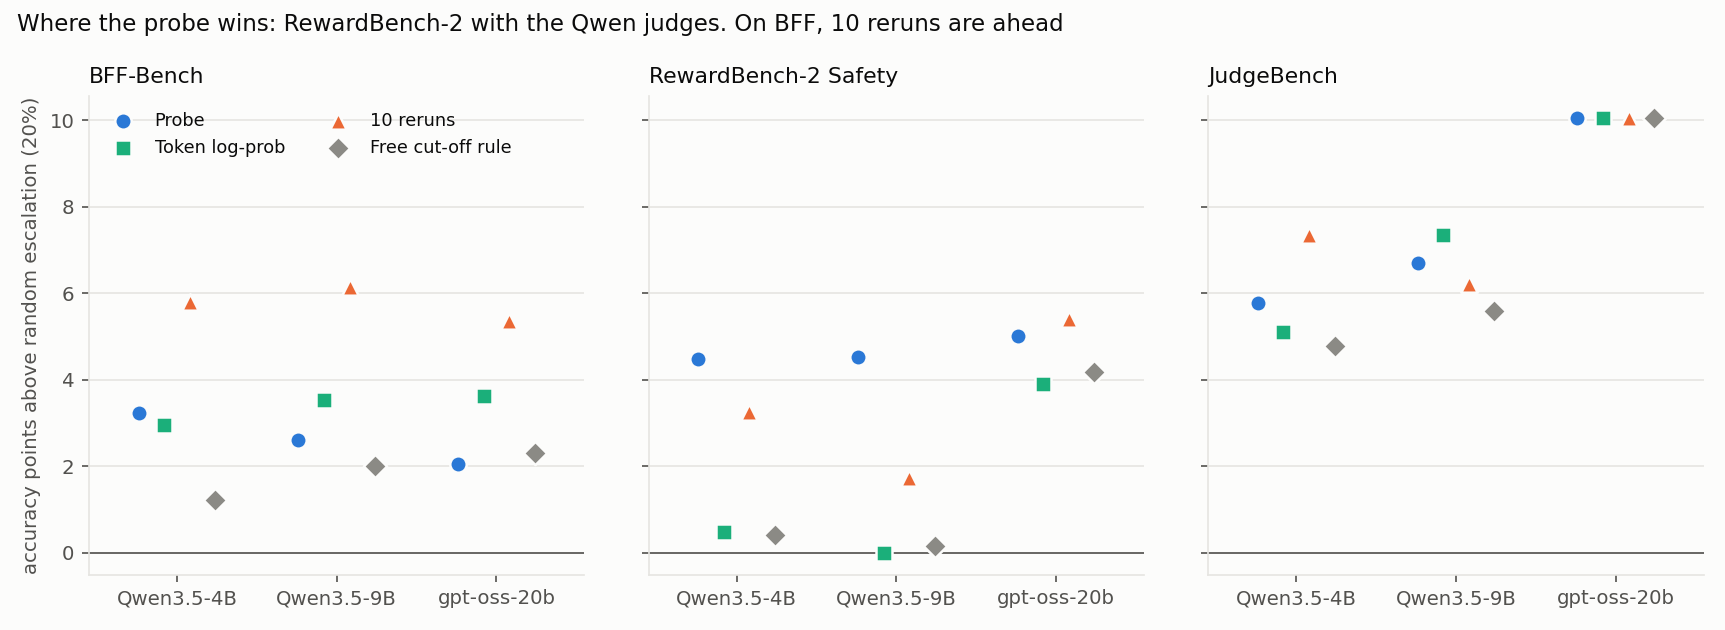
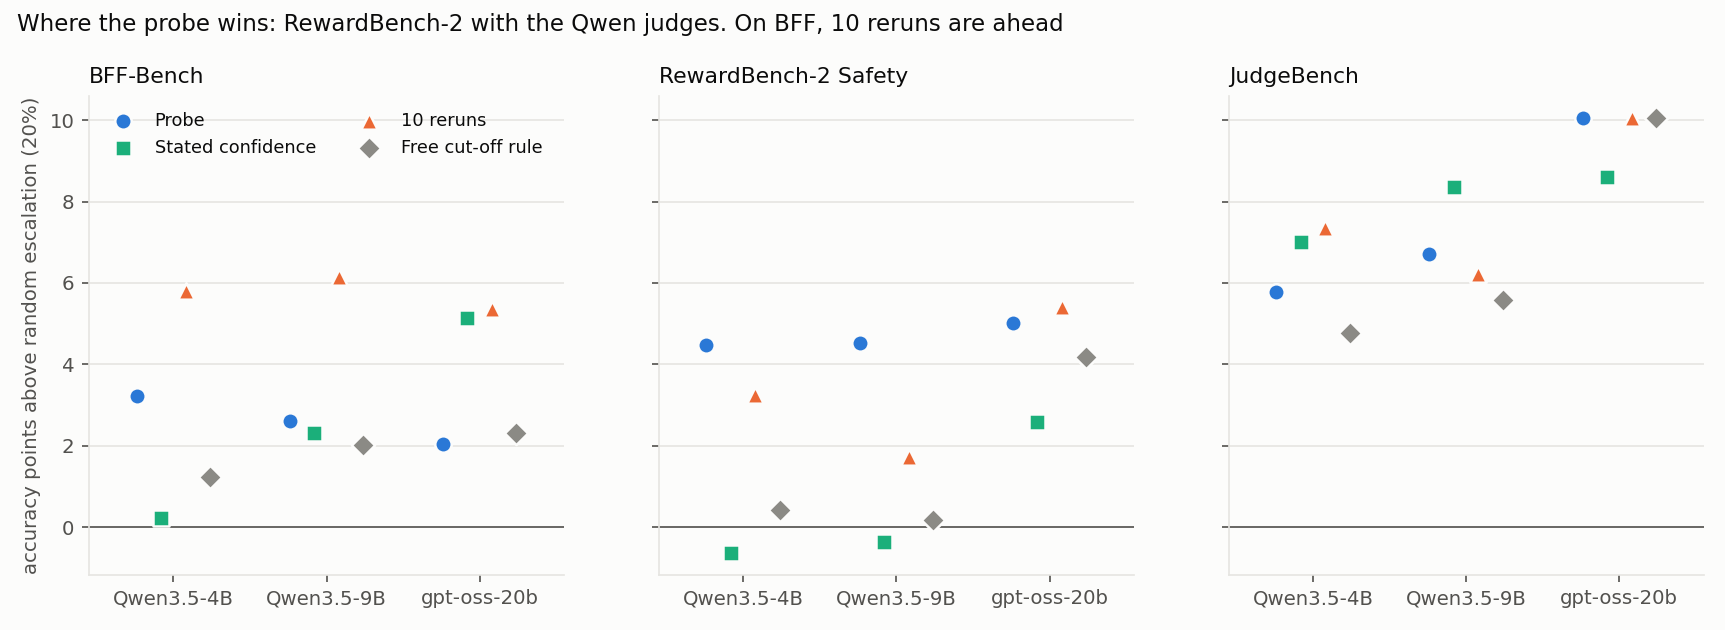
Calibrating LLM Judges README: show stated confidence (the paper's baseline) in the per-benchmark plot instead of token log-prob; keep token probabilities in the table

diff --git a/experiments/calibrating_judges/make_figures.py b/experiments/calibrating_judges/make_figures.py
@@ -68,7 +68,7 @@ def fig_overview(R):
 
 
 def fig_by_bench(R):
-    sigs = [(PROBE, "Probe", BLUE, "o"), ("token log-prob (perplexity)", "Token log-prob", AQUA, "s"), ("consistency (N=10)", "10 reruns", ORANGE, "^"), ("cut-off only (free rule)", "Free cut-off rule", GRAY, "D")]
+    sigs = [(PROBE, "Probe", BLUE, "o"), ("verbalized", "Stated confidence", AQUA, "s"), ("consistency (N=10)", "10 reruns", ORANGE, "^"), ("cut-off only (free rule)", "Free cut-off rule", GRAY, "D")]
     judges = [L for L, _ in RUNS]; fig, axs = plt.subplots(1, 3, figsize=(11.5, 4.2), sharey=True)
     for ax, b in zip(axs, ["bff", "rb2safety", "judgebench"]):
         for k, (s, lab, c, m) in enumerate(sigs):

diff --git a/experiments/calibrating_judges/README.md b/experiments/calibrating_judges/README.md
@@ -69,11 +69,11 @@ Points above random escalation at 20%, averaged over the 3 judges within each be
 
 ![By benchmark](figures/fig2_by_benchmark.png)
 
-Each dot is one judge on one benchmark; zero means no better than random.
+Each dot is one judge on one benchmark; zero means no better than random. The figure shows the judge's stated confidence, the paper's own baseline. Token probabilities are in the table above; on average they are the stronger of the two free rivals (+4.1 against +3.7).
 
 - **RewardBench-2:** the probe is best of all signals, including the 10 reruns (3.5). The other signals that cost nothing extra score only 0.5 to 1.6. This is the one clear win.
 - **BFF:** the probe is weak. 10 reruns and other judges' disagreement are about twice as good, and token probabilities are better too.
-- **JudgeBench:** all signals score between 6.8 and 8.0. 13% to 26% of answers there were cut off at 4,096 tokens, so the free cut-off rule alone already gets 6.8 of the 7.5.
+- **JudgeBench:** all signals score between 6.8 and 8.0, and for the two Qwen judges the judge's stated confidence is above the probe. 13% to 26% of answers there were cut off at 4,096 tokens, so the free cut-off rule alone already gets 6.8 of the 7.5.
 
 Setting by setting, the probe beats 10 reruns in 3 of 9, loses in 5 and ties in 1. It beats the free cut-off rule in 7 of 9 and the best token-probability signal in 5 of 9. Its margins over the free signals are usually under a point or two. It does not beat 10 reruns, but it needs one run instead of about ten.
 
